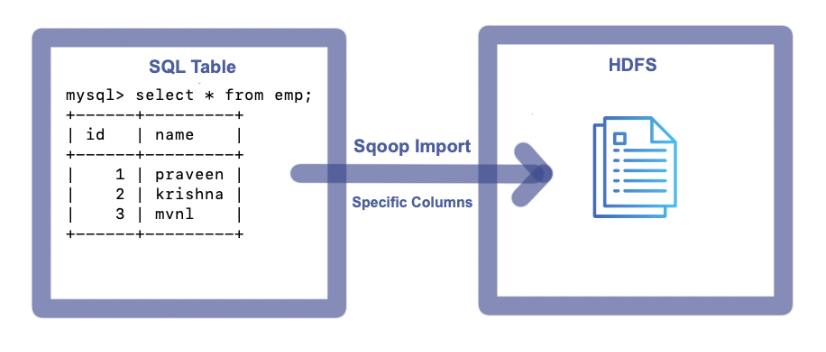
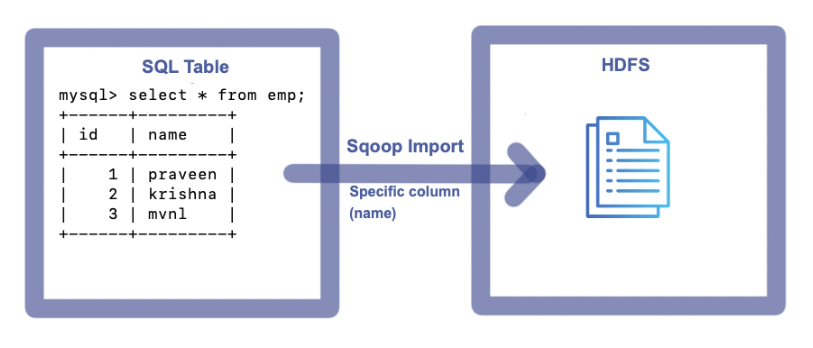
Updated SqoopPortionImportWithReqCols

diff --git a/sqoop/commands_basics.md b/sqoop/commands_basics.md
@@ -197,3 +197,169 @@ Note: Recompile with -Xlint:deprecation for details.
 Imported File on HDFS:
 
 ![Sqoop Import Export Example](./assets/images/SqoopFullImportWithReqCols_Output.png)
+
+### 1.3. Sqoop Portion Imports from a single table
+![Sqoop Import Export Example](./assets/images/SqoopPortionImport.png)
+To import specific data(records) from a table to HDFS, execute the following Command
+```sh
+sqoop import --connect jdbc:mysql://localhost:3306/mvp --username root --password cloudera --m 1 --table emp --delete-target-dir --target-dir /user/cloudera/mvp/tableportionimp --where "name='praveen'"
+```
+Console:
+```sh
+Warning: /usr/lib/sqoop/../accumulo does not exist! Accumulo imports will fail.
+Please set $ACCUMULO_HOME to the root of your Accumulo installation.
+25/02/28 20:27:21 INFO sqoop.Sqoop: Running Sqoop version: 1.4.6-cdh5.12.0
+25/02/28 20:27:21 WARN tool.BaseSqoopTool: Setting your password on the command-line is insecure. Consider using -P instead.
+25/02/28 20:27:22 INFO manager.MySQLManager: Preparing to use a MySQL streaming resultset.
+25/02/28 20:27:22 INFO tool.CodeGenTool: Beginning code generation
+25/02/28 20:27:24 INFO manager.SqlManager: Executing SQL statement: SELECT t.* FROM `emp` AS t LIMIT 1
+25/02/28 20:27:25 INFO manager.SqlManager: Executing SQL statement: SELECT t.* FROM `emp` AS t LIMIT 1
+25/02/28 20:27:25 INFO orm.CompilationManager: HADOOP_MAPRED_HOME is /usr/lib/hadoop-mapreduce
+Note: /tmp/sqoop-cloudera/compile/64dc7b3d60b45dbc506f18daec0b2316/emp.java uses or overrides a deprecated API.
+Note: Recompile with -Xlint:deprecation for details.
+25/02/28 20:27:34 INFO orm.CompilationManager: Writing jar file: /tmp/sqoop-cloudera/compile/64dc7b3d60b45dbc506f18daec0b2316/emp.jar
+25/02/28 20:27:39 INFO tool.ImportTool: Destination directory /user/cloudera/mvp/tableportionimp deleted.
+25/02/28 20:27:39 WARN manager.MySQLManager: It looks like you are importing from mysql.
+25/02/28 20:27:39 WARN manager.MySQLManager: This transfer can be faster! Use the --direct
+25/02/28 20:27:39 WARN manager.MySQLManager: option to exercise a MySQL-specific fast path.
+25/02/28 20:27:39 INFO manager.MySQLManager: Setting zero DATETIME behavior to convertToNull (mysql)
+25/02/28 20:27:39 INFO mapreduce.ImportJobBase: Beginning import of emp
+25/02/28 20:27:39 INFO Configuration.deprecation: mapred.job.tracker is deprecated. Instead, use mapreduce.jobtracker.address
+25/02/28 20:27:39 INFO Configuration.deprecation: mapred.jar is deprecated. Instead, use mapreduce.job.jar
+25/02/28 20:27:39 INFO Configuration.deprecation: mapred.map.tasks is deprecated. Instead, use mapreduce.job.maps
+25/02/28 20:27:40 INFO client.RMProxy: Connecting to ResourceManager at /0.0.0.0:8032
+25/02/28 20:27:47 INFO db.DBInputFormat: Using read commited transaction isolation
+25/02/28 20:27:47 INFO mapreduce.JobSubmitter: number of splits:1
+25/02/28 20:27:48 INFO mapreduce.JobSubmitter: Submitting tokens for job: job_1740798011012_0003
+25/02/28 20:27:50 INFO impl.YarnClientImpl: Submitted application application_1740798011012_0003
+25/02/28 20:27:50 INFO mapreduce.Job: The url to track the job: http://quickstart.cloudera:8088/proxy/application_1740798011012_0003/
+25/02/28 20:27:50 INFO mapreduce.Job: Running job: job_1740798011012_0003
+25/02/28 20:28:26 INFO mapreduce.Job: Job job_1740798011012_0003 running in uber mode : false
+25/02/28 20:28:26 INFO mapreduce.Job:  map 0% reduce 0%
+25/02/28 20:28:54 INFO mapreduce.Job:  map 100% reduce 0%
+25/02/28 20:28:55 INFO mapreduce.Job: Job job_1740798011012_0003 completed successfully
+25/02/28 20:28:55 INFO mapreduce.Job: Counters: 30
+	File System Counters
+		FILE: Number of bytes read=0
+		FILE: Number of bytes written=151700
+		FILE: Number of read operations=0
+		FILE: Number of large read operations=0
+		FILE: Number of write operations=0
+		HDFS: Number of bytes read=87
+		HDFS: Number of bytes written=10
+		HDFS: Number of read operations=4
+		HDFS: Number of large read operations=0
+		HDFS: Number of write operations=2
+	Job Counters
+		Launched map tasks=1
+		Other local map tasks=1
+		Total time spent by all maps in occupied slots (ms)=25249
+		Total time spent by all reduces in occupied slots (ms)=0
+		Total time spent by all map tasks (ms)=25249
+		Total vcore-milliseconds taken by all map tasks=25249
+		Total megabyte-milliseconds taken by all map tasks=25854976
+	Map-Reduce Framework
+		Map input records=1
+		Map output records=1
+		Input split bytes=87
+		Spilled Records=0
+		Failed Shuffles=0
+		Merged Map outputs=0
+		GC time elapsed (ms)=264
+		CPU time spent (ms)=5770
+		Physical memory (bytes) snapshot=191295488
+		Virtual memory (bytes) snapshot=1575731200
+		Total committed heap usage (bytes)=137887744
+	File Input Format Counters
+		Bytes Read=0
+	File Output Format Counters
+		Bytes Written=10
+25/02/28 20:28:55 INFO mapreduce.ImportJobBase: Transferred 10 bytes in 75.7572 seconds (0.132 bytes/sec)
+25/02/28 20:28:55 INFO mapreduce.ImportJobBase: Retrieved 1 records.
+```
+Imported File on HDFS:
+
+![Sqoop Import Export Example](./assets/images/SqoopPortionImport_Output.png)
+
+### 1.4. Sqoop Portion Imports from a single table with specific columns
+![Sqoop Import Export Example](./assets/images/SqoopPortionImportWithReqCols.png)
+To import specific columns of specific data(records) from a table to HDFS, execute the following Command
+```sh
+sqoop import --connect jdbc:mysql://localhost:3306/mvp --username root --password cloudera --m 1 --table emp --delete-target-dir --target-dir /user/cloudera/mvp/tableportionimpreqcols --where "name='praveen'" --columns "name"
+```
+Console:
+```sh
+Warning: /usr/lib/sqoop/../accumulo does not exist! Accumulo imports will fail.
+Please set $ACCUMULO_HOME to the root of your Accumulo installation.
+25/02/28 20:45:55 INFO sqoop.Sqoop: Running Sqoop version: 1.4.6-cdh5.12.0
+25/02/28 20:45:55 WARN tool.BaseSqoopTool: Setting your password on the command-line is insecure. Consider using -P instead.
+25/02/28 20:45:56 INFO manager.MySQLManager: Preparing to use a MySQL streaming resultset.
+25/02/28 20:45:56 INFO tool.CodeGenTool: Beginning code generation
+25/02/28 20:45:59 INFO manager.SqlManager: Executing SQL statement: SELECT t.* FROM `emp` AS t LIMIT 1
+25/02/28 20:45:59 INFO manager.SqlManager: Executing SQL statement: SELECT t.* FROM `emp` AS t LIMIT 1
+25/02/28 20:45:59 INFO orm.CompilationManager: HADOOP_MAPRED_HOME is /usr/lib/hadoop-mapreduce
+Note: /tmp/sqoop-cloudera/compile/688644f01568b30bc65cee3a0a712835/emp.java uses or overrides a deprecated API.
+Note: Recompile with -Xlint:deprecation for details.
+25/02/28 20:46:07 INFO orm.CompilationManager: Writing jar file: /tmp/sqoop-cloudera/compile/688644f01568b30bc65cee3a0a712835/emp.jar
+25/02/28 20:46:12 INFO tool.ImportTool: Destination directory /user/cloudera/mvp/tableportionimpreqcols deleted.
+25/02/28 20:46:12 WARN manager.MySQLManager: It looks like you are importing from mysql.
+25/02/28 20:46:12 WARN manager.MySQLManager: This transfer can be faster! Use the --direct
+25/02/28 20:46:12 WARN manager.MySQLManager: option to exercise a MySQL-specific fast path.
+25/02/28 20:46:12 INFO manager.MySQLManager: Setting zero DATETIME behavior to convertToNull (mysql)
+25/02/28 20:46:12 INFO mapreduce.ImportJobBase: Beginning import of emp
+25/02/28 20:46:12 INFO Configuration.deprecation: mapred.job.tracker is deprecated. Instead, use mapreduce.jobtracker.address
+25/02/28 20:46:13 INFO Configuration.deprecation: mapred.jar is deprecated. Instead, use mapreduce.job.jar
+25/02/28 20:46:13 INFO Configuration.deprecation: mapred.map.tasks is deprecated. Instead, use mapreduce.job.maps
+25/02/28 20:46:13 INFO client.RMProxy: Connecting to ResourceManager at /0.0.0.0:8032
+25/02/28 20:46:20 INFO db.DBInputFormat: Using read commited transaction isolation
+25/02/28 20:46:20 INFO mapreduce.JobSubmitter: number of splits:1
+25/02/28 20:46:21 INFO mapreduce.JobSubmitter: Submitting tokens for job: job_1740798011012_0004
+25/02/28 20:46:23 INFO impl.YarnClientImpl: Submitted application application_1740798011012_0004
+25/02/28 20:46:23 INFO mapreduce.Job: The url to track the job: http://quickstart.cloudera:8088/proxy/application_1740798011012_0004/
+25/02/28 20:46:23 INFO mapreduce.Job: Running job: job_1740798011012_0004
+25/02/28 20:46:52 INFO mapreduce.Job: Job job_1740798011012_0004 running in uber mode : false
+25/02/28 20:46:52 INFO mapreduce.Job:  map 0% reduce 0%
+25/02/28 20:47:20 INFO mapreduce.Job:  map 100% reduce 0%
+25/02/28 20:47:21 INFO mapreduce.Job: Job job_1740798011012_0004 completed successfully
+25/02/28 20:47:22 INFO mapreduce.Job: Counters: 30
+	File System Counters
+		FILE: Number of bytes read=0
+		FILE: Number of bytes written=151847
+		FILE: Number of read operations=0
+		FILE: Number of large read operations=0
+		FILE: Number of write operations=0
+		HDFS: Number of bytes read=87
+		HDFS: Number of bytes written=8
+		HDFS: Number of read operations=4
+		HDFS: Number of large read operations=0
+		HDFS: Number of write operations=2
+	Job Counters
+		Launched map tasks=1
+		Other local map tasks=1
+		Total time spent by all maps in occupied slots (ms)=24128
+		Total time spent by all reduces in occupied slots (ms)=0
+		Total time spent by all map tasks (ms)=24128
+		Total vcore-milliseconds taken by all map tasks=24128
+		Total megabyte-milliseconds taken by all map tasks=24707072
+	Map-Reduce Framework
+		Map input records=1
+		Map output records=1
+		Input split bytes=87
+		Spilled Records=0
+		Failed Shuffles=0
+		Merged Map outputs=0
+		GC time elapsed (ms)=351
+		CPU time spent (ms)=6460
+		Physical memory (bytes) snapshot=185425920
+		Virtual memory (bytes) snapshot=1569693696
+		Total committed heap usage (bytes)=140509184
+	File Input Format Counters
+		Bytes Read=0
+	File Output Format Counters
+		Bytes Written=8
+25/02/28 20:47:22 INFO mapreduce.ImportJobBase: Transferred 8 bytes in 69.3222 seconds (0.1154 bytes/sec)
+25/02/28 20:47:22 INFO mapreduce.ImportJobBase: Retrieved 1 records.
+```
+Imported File on HDFS:
+
+![Sqoop Import Export Example](./assets/images/SqoopPortionImportWithReqCols_Output.png)
